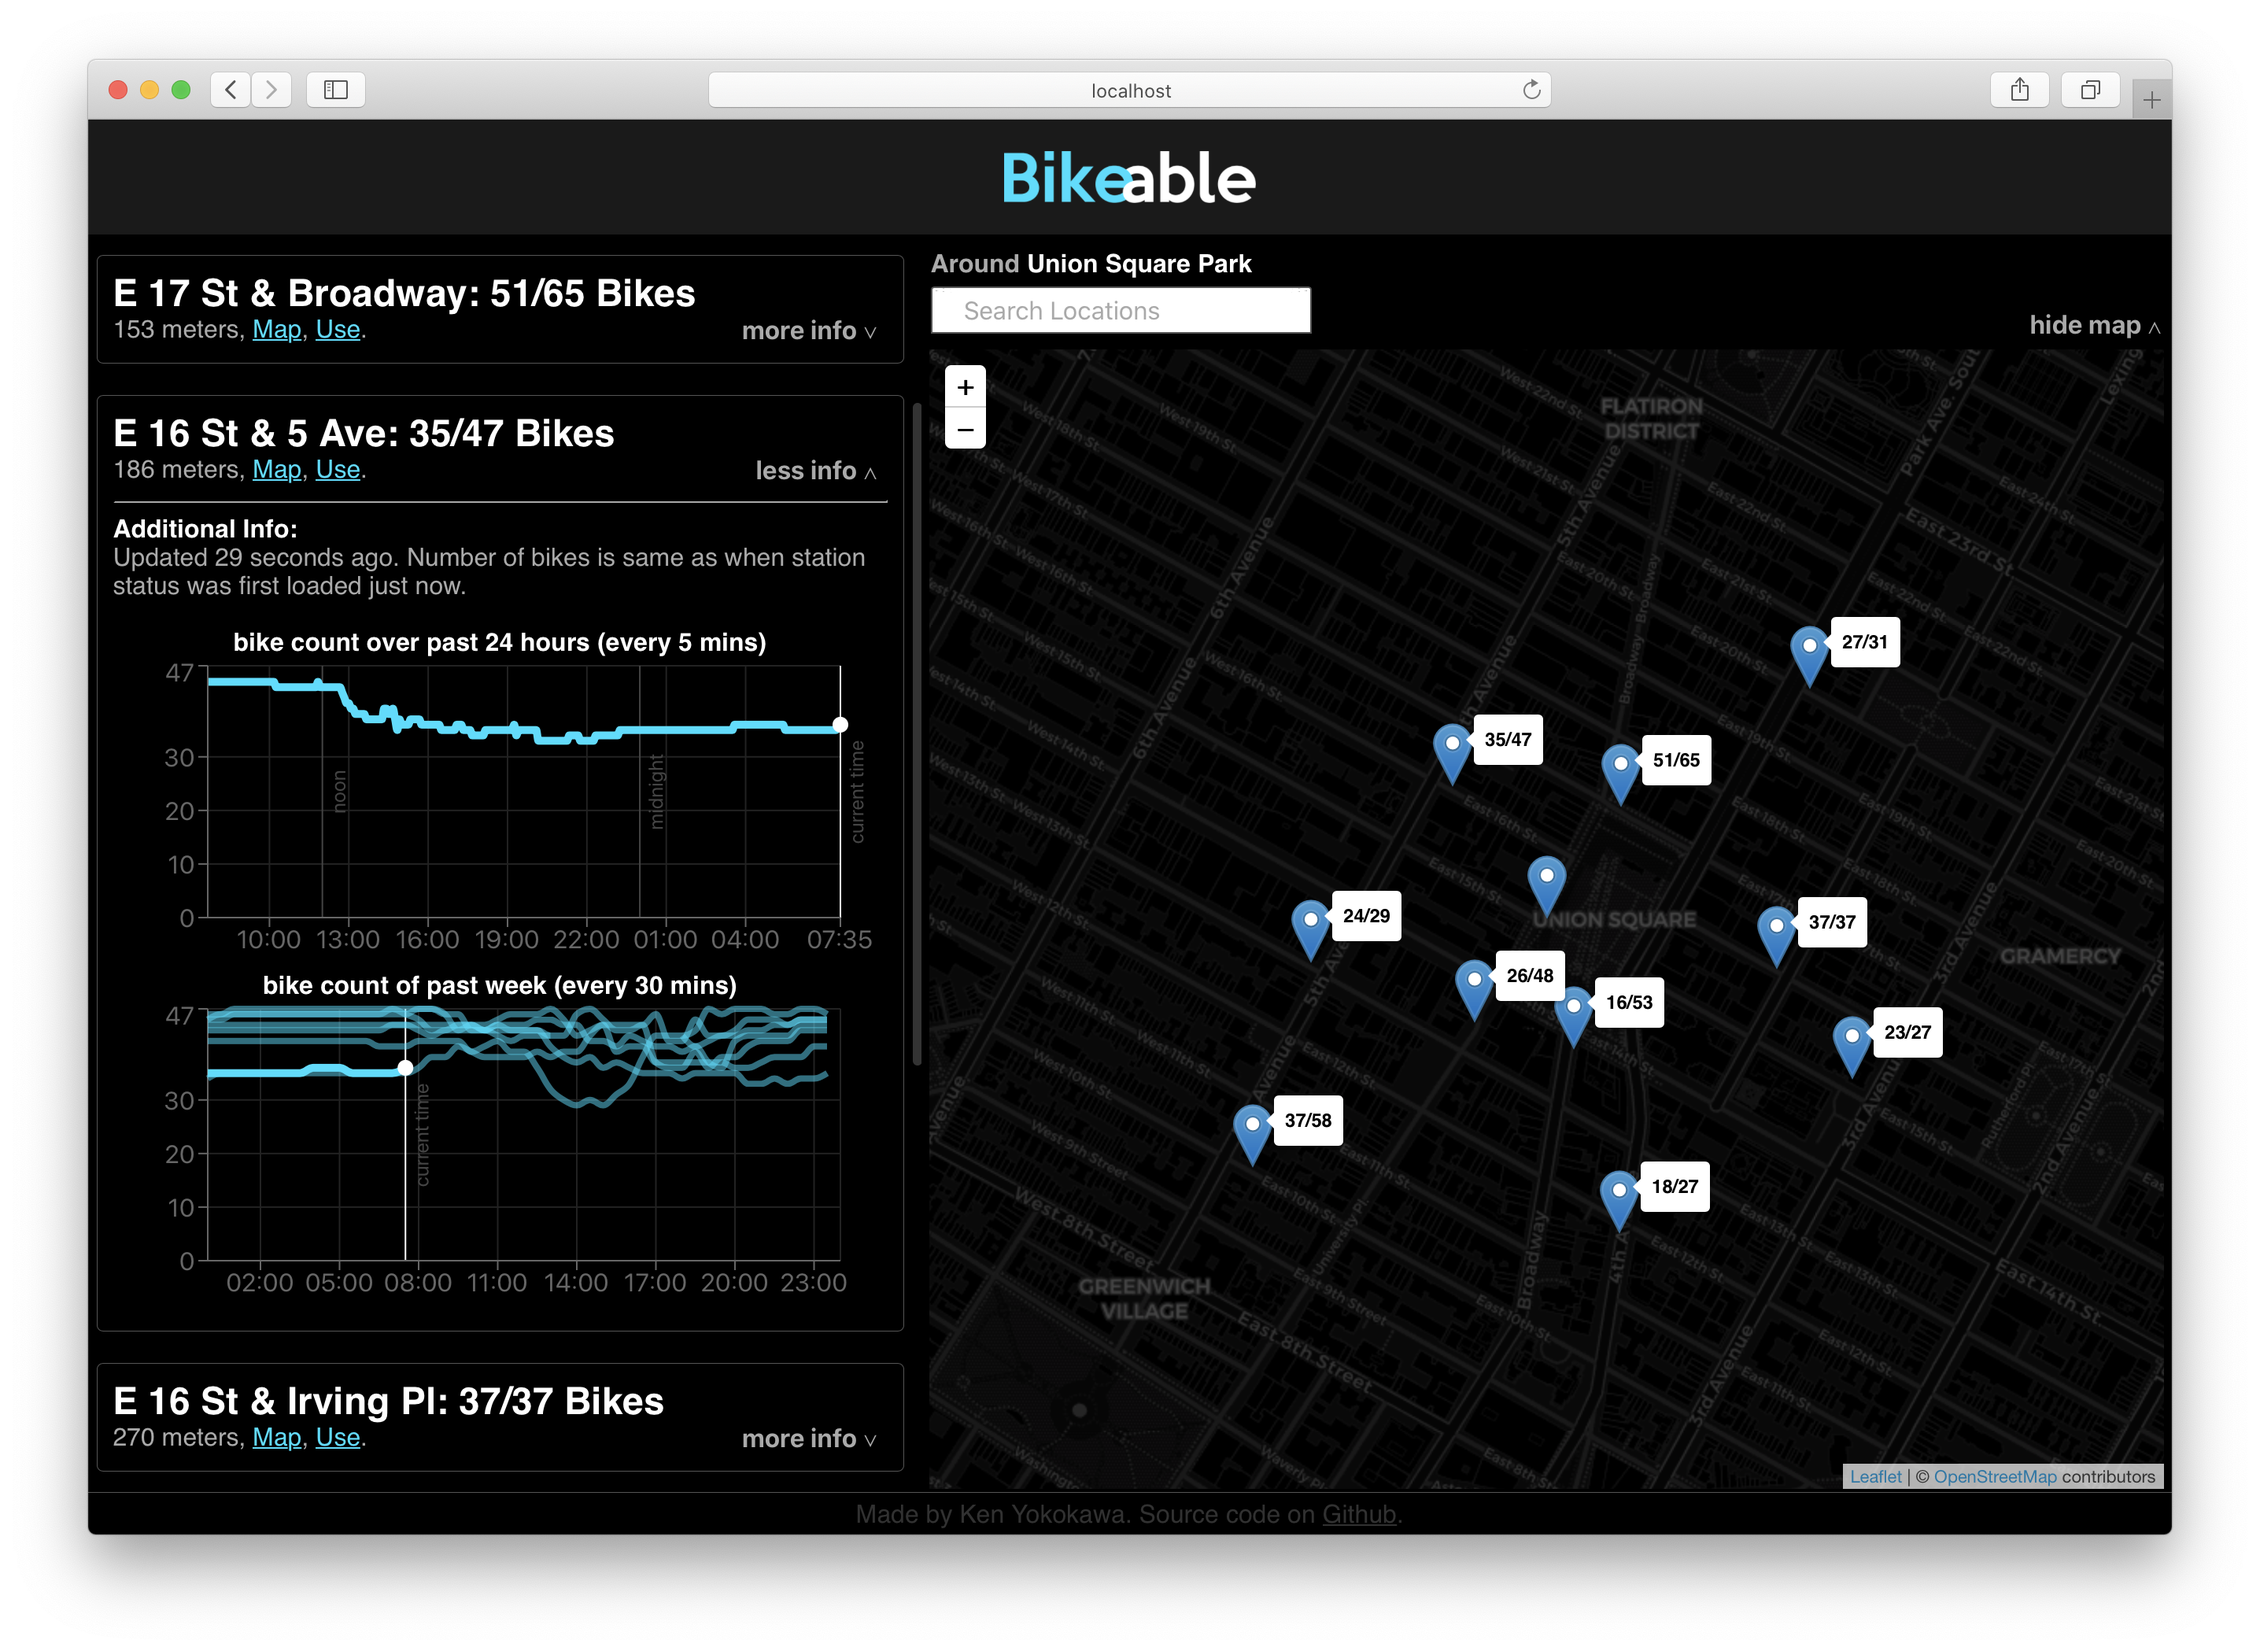
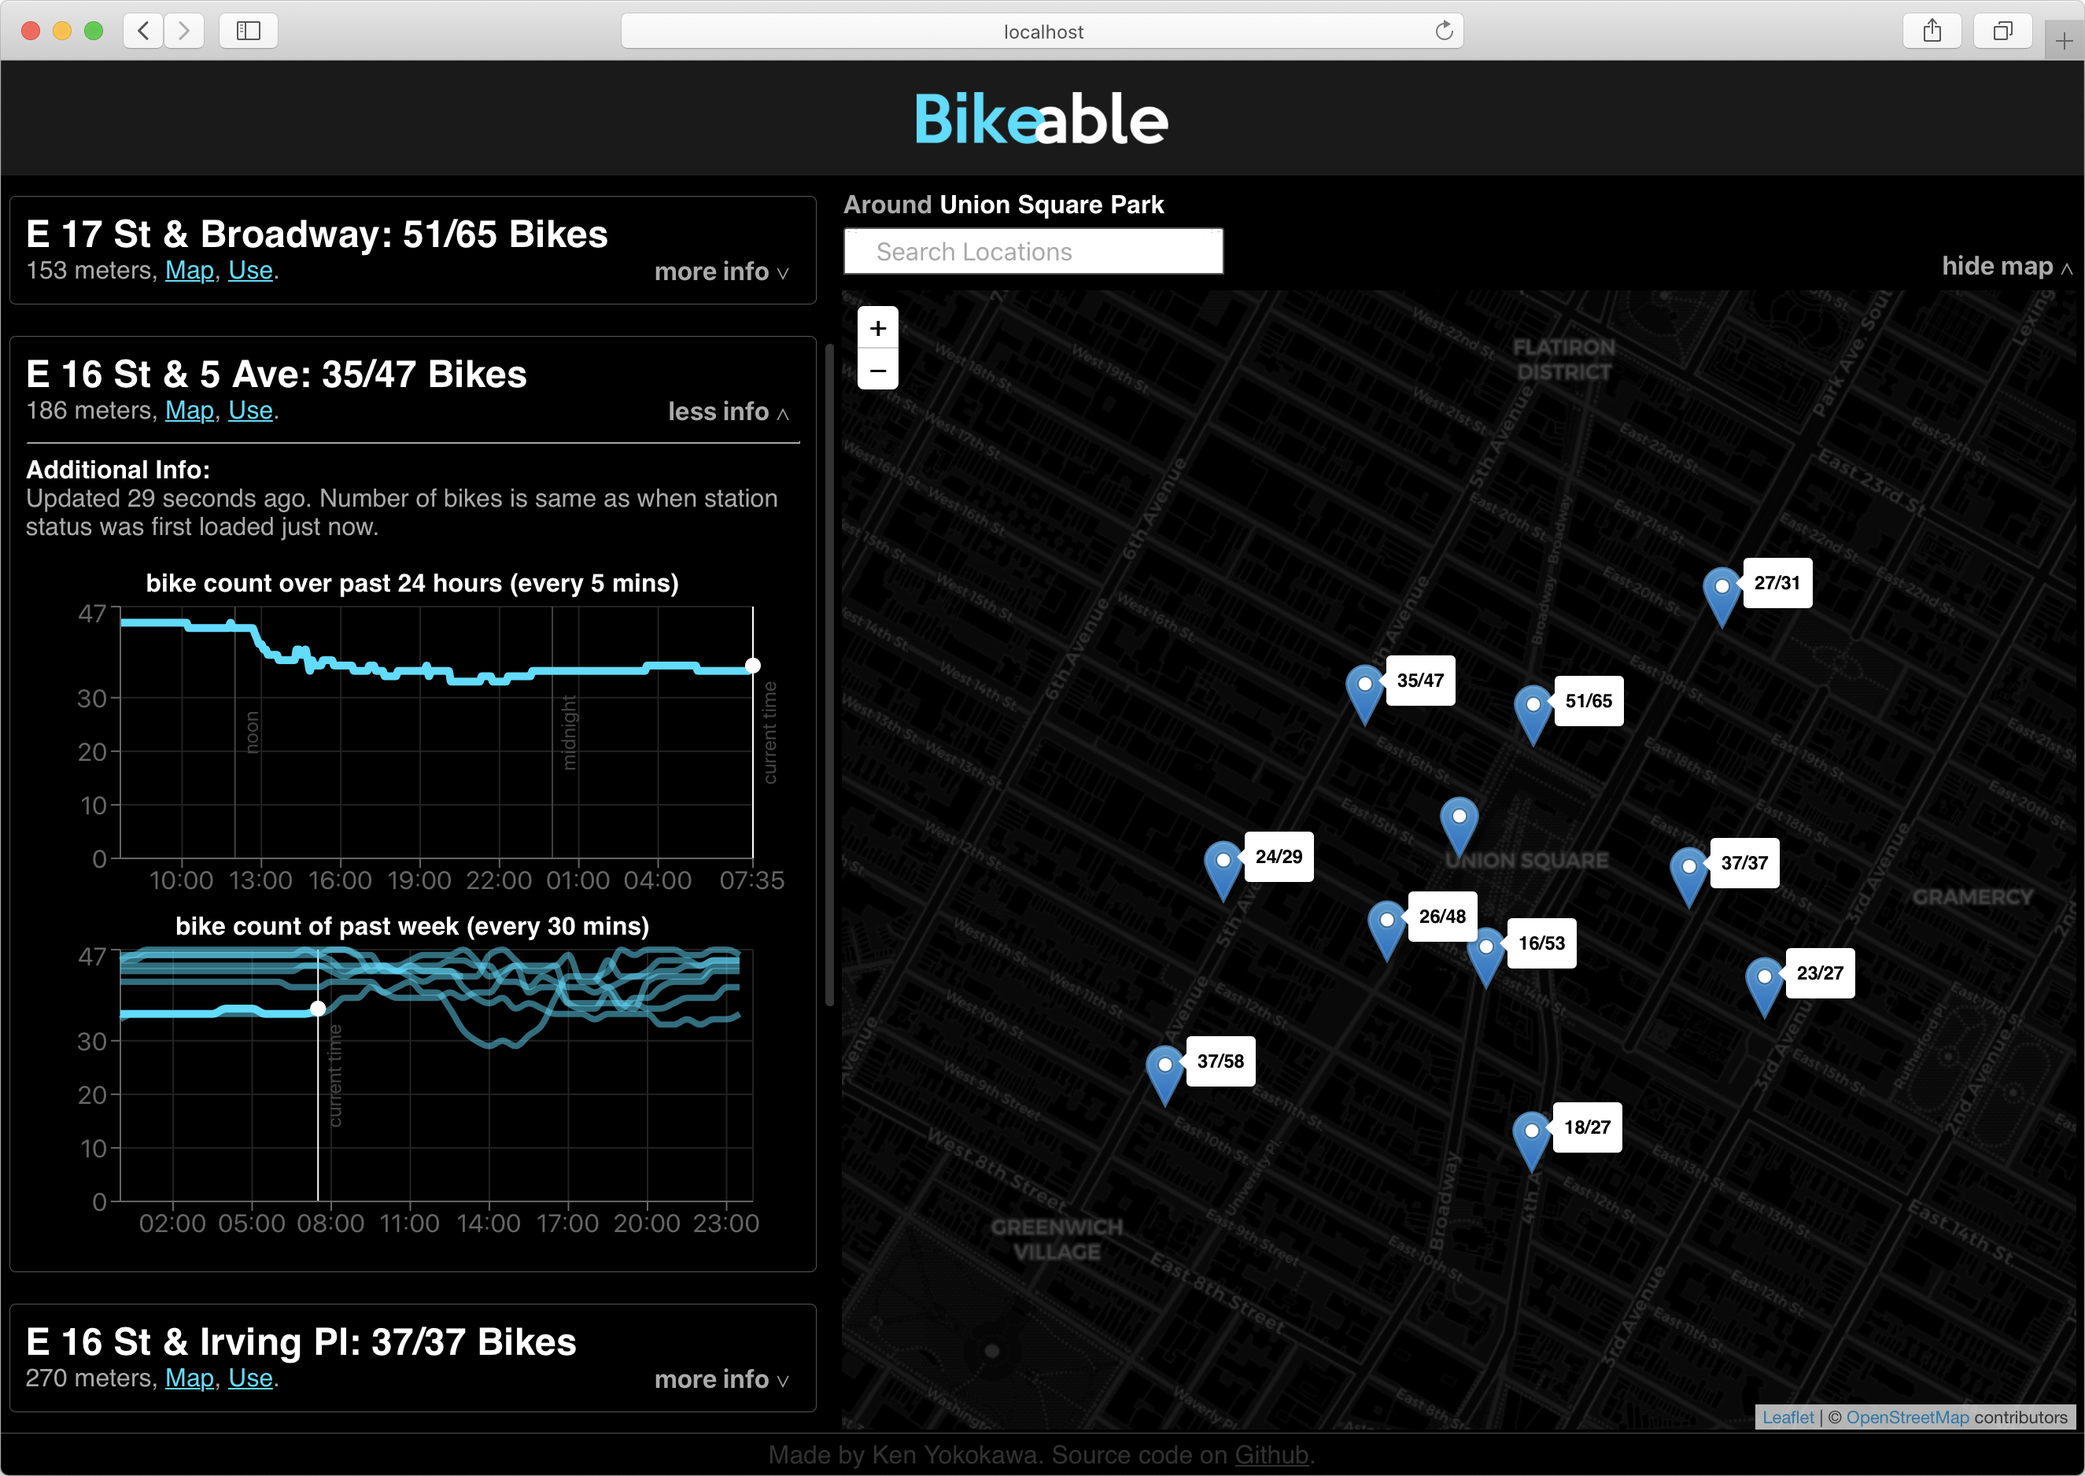
fix readme screenshots

diff --git a/README.md b/README.md
@@ -6,10 +6,14 @@ This project is currently in development. Users can see the real time status and
 
 ## Project Screen Shot
 
-Desktop
-![alt text](https://github.com/ky1044/Bikeable/blob/master/media/Screenshot-2020:04:26-1.png "Bikeable desktop progress - April 26th 2020")
-Mobile
-![alt text](https://github.com/ky1044/Bikeable/blob/master/media/Screenshot-2020:04:26-2.png "Bikeable mobile progress - April 26th 2020")
+Desktop<br/>
+
+<img src="https://github.com/ky1044/Bikeable/blob/master/media/Screenshot-2020:04:26-1.png" width="1000px">
+
+Mobile<br/>
+<img align="center" src="https://github.com/ky1044/Bikeable/blob/master/media/Screenshot-2020:04:26-2.png" width="300px">
+
+
 
 
 ## Installation and Setup Instructions
